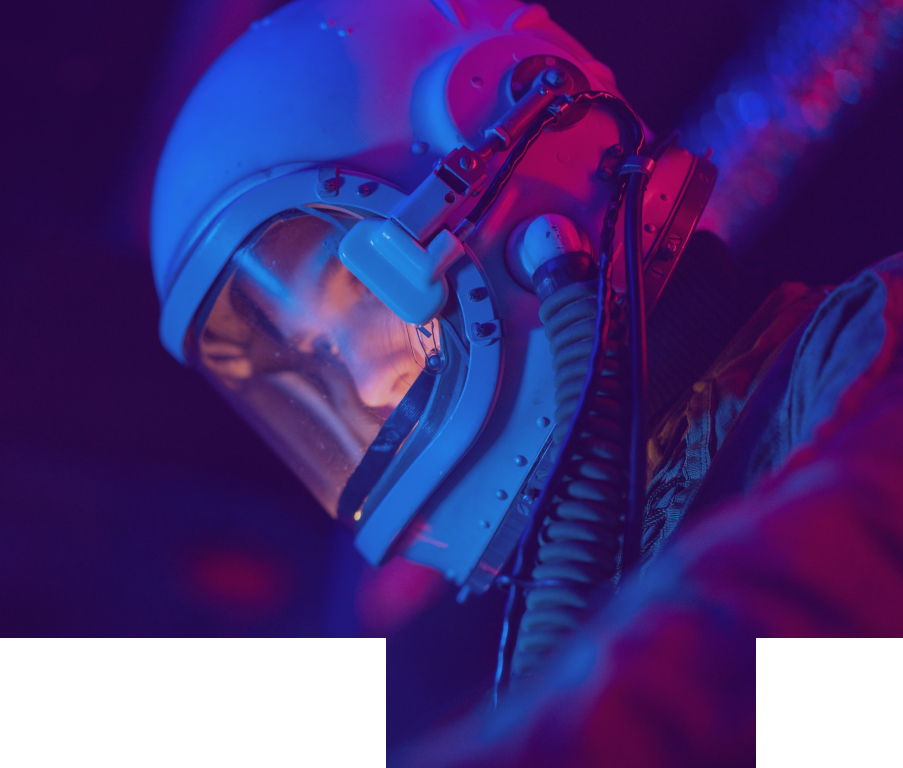
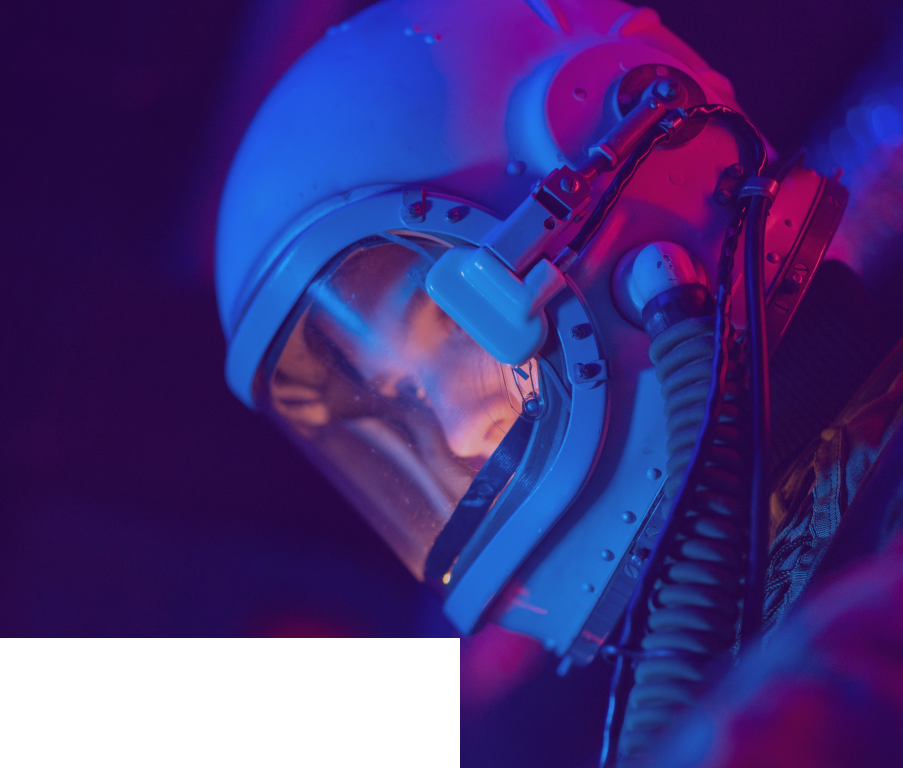
background_leave

diff --git a/test_desctop_view/main.css b/test_desctop_view/main.css
@@ -106,8 +106,8 @@ div, p, input, button, span, a, ul, li {
 }
 .main_page__right_section{
     background: url(img/background.png) no-repeat center top / cover;
-    width: 903px;
-    background-size: 100% ;
+    width: 100%;
+    height: auto;
 }
 .right_nav{
     margin-top: 47px;
@@ -162,7 +162,4 @@ div, p, input, button, span, a, ul, li {
 }
 .vk{
     display: block;
-}
-.ase{
-    height: 10000px;
 }
